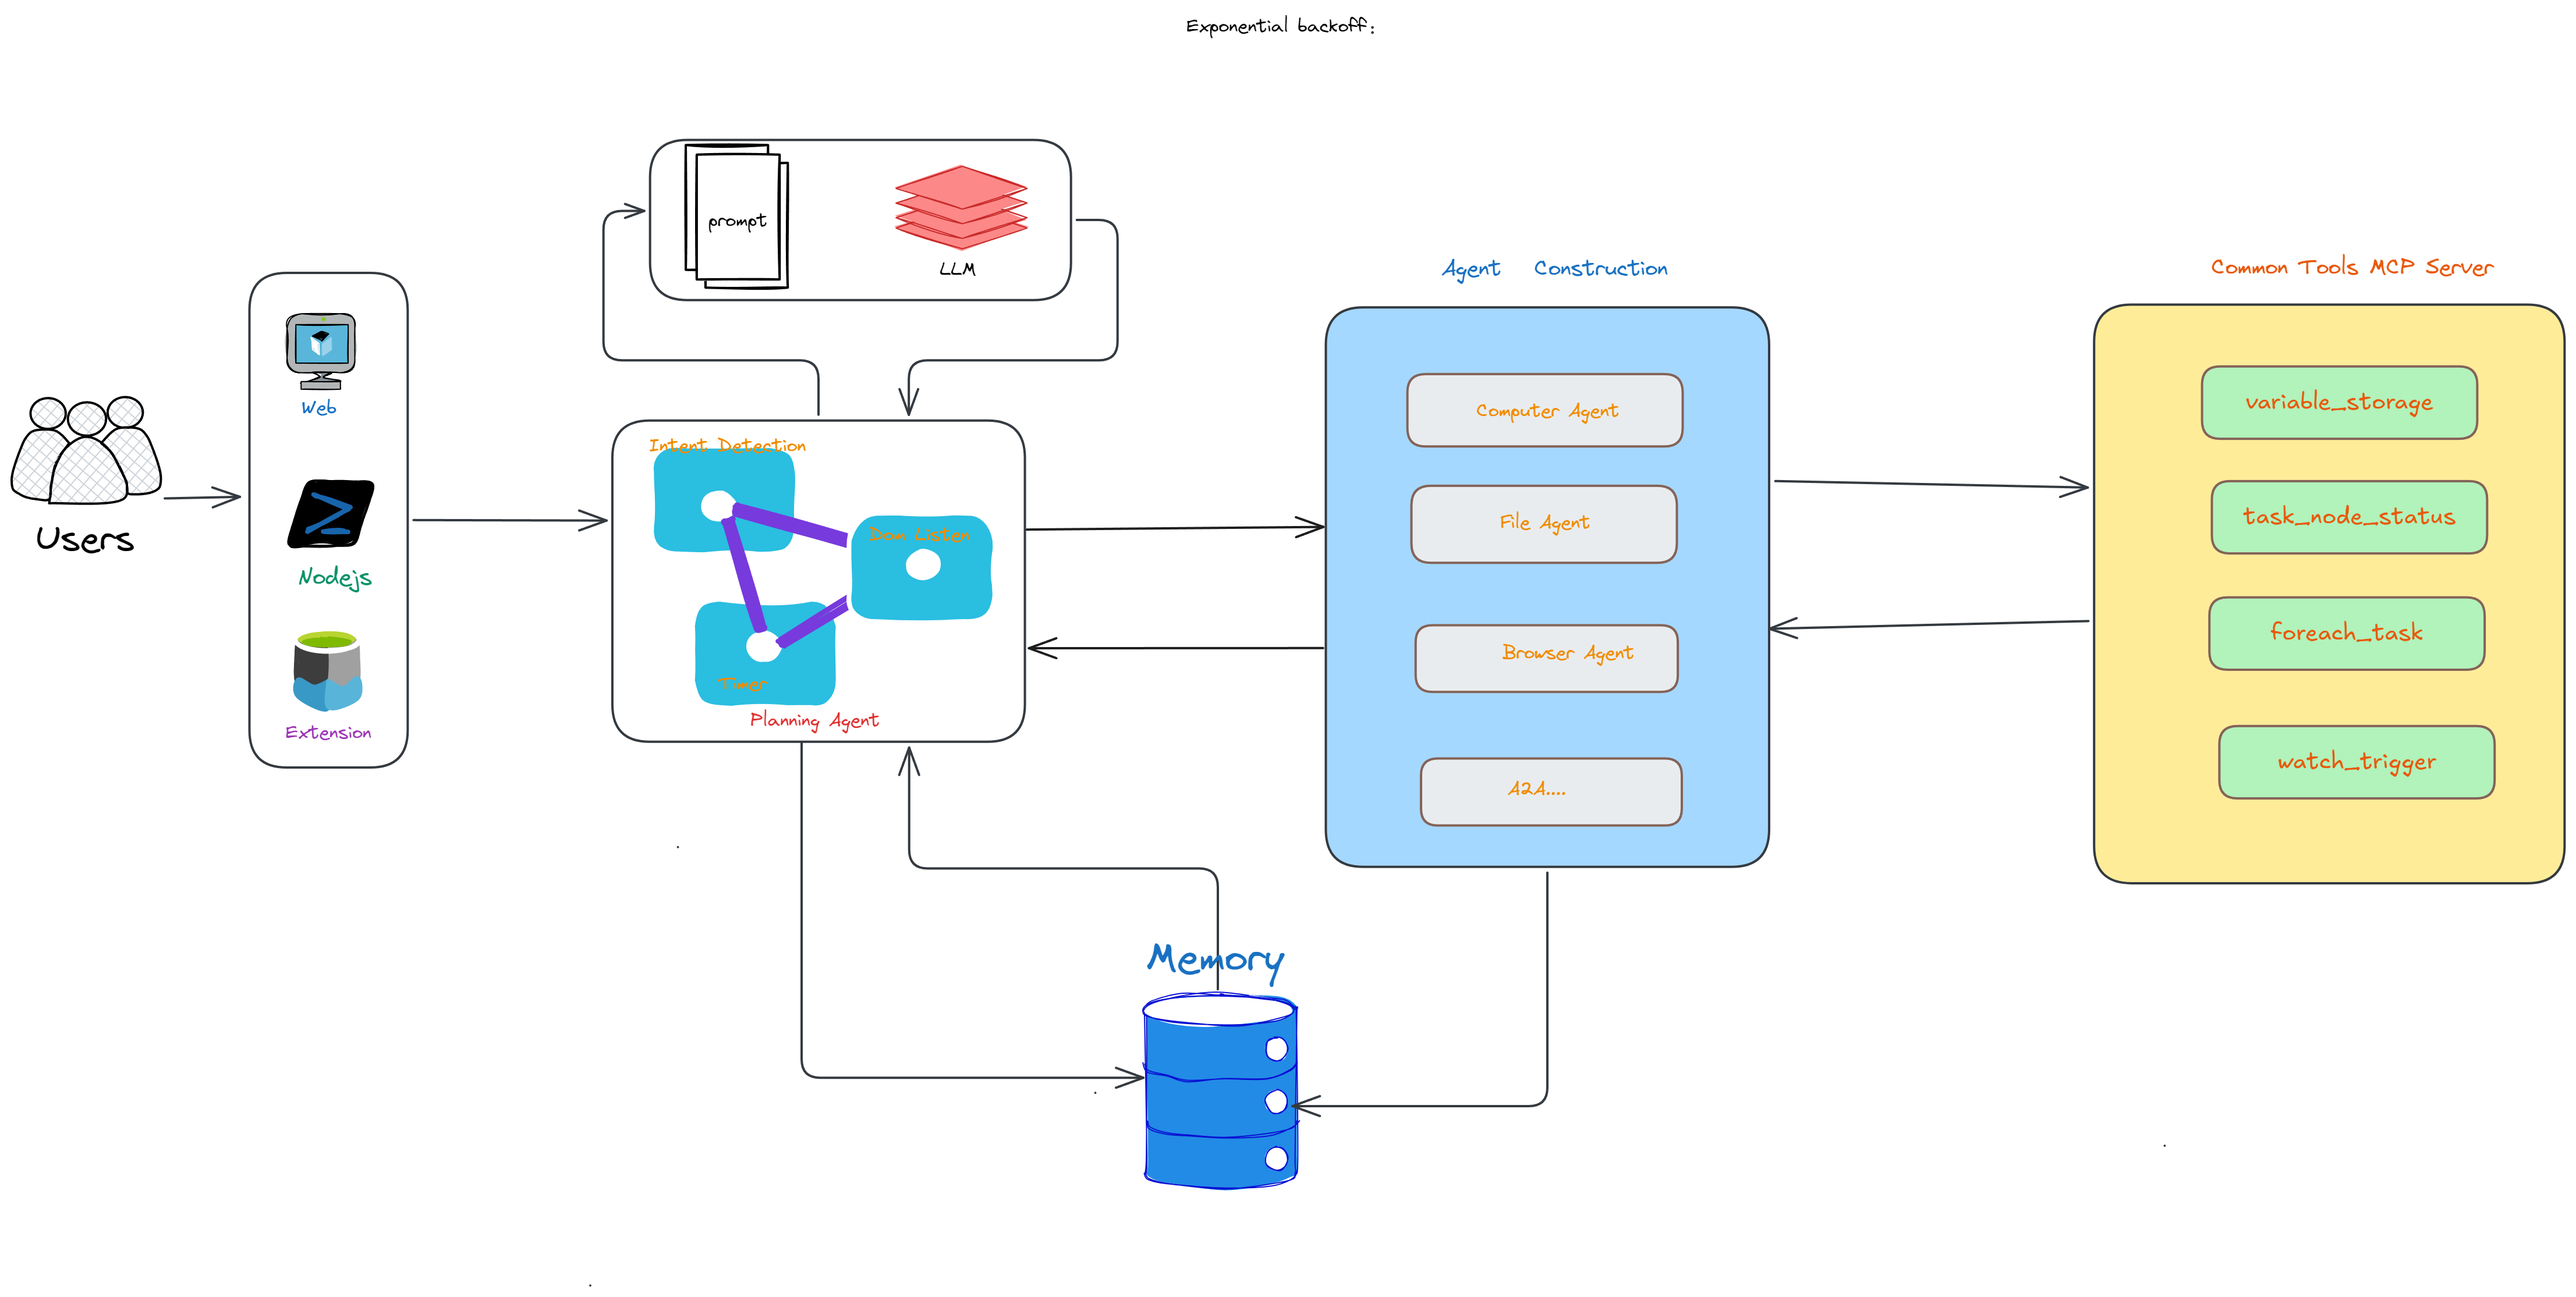
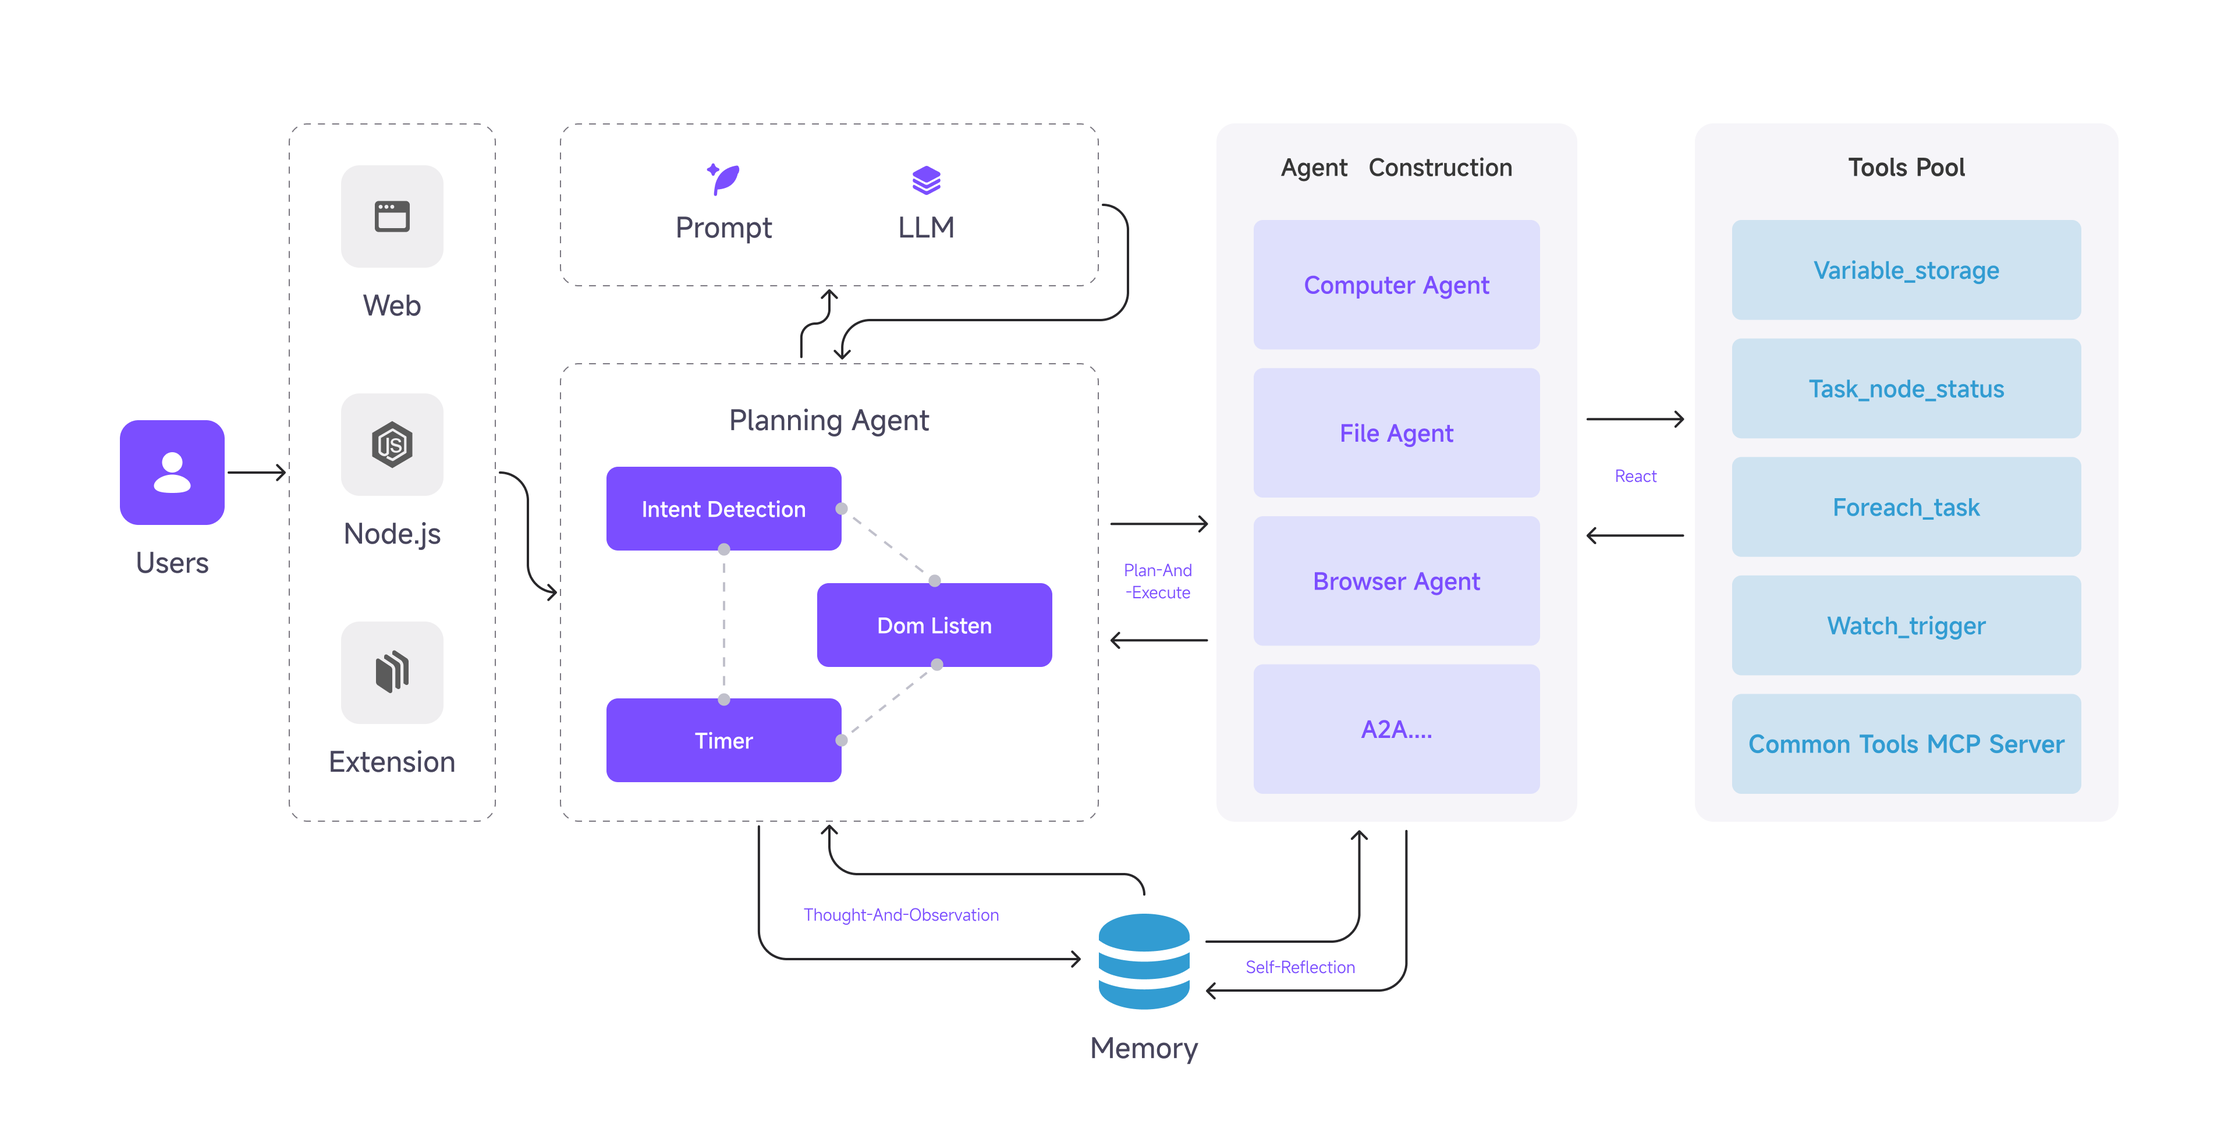
temp

diff --git a/src/content/docs/getting-started/eko.md b/src/content/docs/getting-started/eko.md
@@ -10,7 +10,6 @@ Eko (pronounced like “echo”) is a powerful framework designed for building p
 
 ## SOTA on Online-mind2web benchmark
 ![](../../../assets/Fellouwithekov2_online_mind2web.png)
-
 ## Eko 2.0 High level Architecture
 ![](../assets/architecture-new-placeholder.png)
 
@@ -29,9 +28,8 @@ Eko (pronounced like “echo”) is a powerful framework designed for building p
 | **Callback Chain**     | Stream Callback & Human Callback | Simple Hooks           |
 | **Node.js with Playwright**     | ✅ | ✅           |
 
-
+Eko 2.0 achieves 80% success rate on the Online-Mind2web benchmark, compared to 31% for Eko 1.0. This performance improvement reflects the architectural enhancements and optimizations Fellou has implemented in the new version, making Eko 2.0 significantly more reliable for production workflows.
 ![](../assets/v1_v2.jpeg)
-
 # Framework Comparison
 
 | Feature                                 | Eko                 | Langchain   | Browser-use | Dify.ai | Coze |
